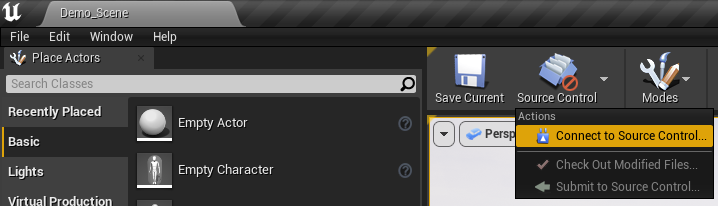
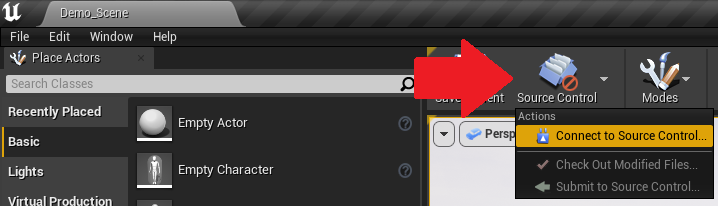
Updating UE Source Control stuffs

Changed region(s): [[0.5515, 0.2039, 0.7354, 0.5825]]

diff --git a/css/style.css b/css/style.css
@@ -53,3 +53,24 @@ h6 {
 	object-fit: cover;
 	object-position: 50% -125px;
 }
+
+.markdown-section thead tr {
+	background: var(--table-row-odd-background) !important;
+}
+
+.markdown-section tbody tr {
+	background: var(--table-row-even-background) !important;
+}
+
+.markdown-section th,
+.markdown-section td {
+	border: none;
+	/* width: 50%; */
+}
+
+/*
+.markdown-section img {
+	margin: auto;
+	display: block;
+}
+*/

diff --git a/docs/content/unreal.md b/docs/content/unreal.md
@@ -34,29 +34,48 @@ With P4V open and connected to the XR Studios Perforce server, launch the Unreal
 
 Once the project is open, select the source control option in Unreal and click _"Connect to source control"_. This option is located in different places depending on whether you are working in UE4 or UE5:
 
-#### UE4 Location
+---
 
-In UE4, the icon is in the top left corner, next to the "Save Current" icon.
+| UE4                                                                           | UE5                                                                 |
+| ----------------------------------------------------------------------------- | ------------------------------------------------------------------- |
+| In UE4, the icon is in the top left corner, next to the "Save Current" icon.  | In UE5, the icon is in the bottom right corner.                     |
+| ![UE4 source control location](../../img/p4v/UE4_sourcecontrol.png)           | ![UE5 source control location](../../img/p4v/UE5_sourcecontrol.png) |
 
-![UE4 source control location](../../img/p4v/UE4_sourcecontrol.png)
+?> In UE 5.2 onwards, this feature was renamed from "Source Control" to "Revision Control"; however, the location is in the same place!
 
-#### UE5 Location
-
-In UE5, the icon is in the bottom right corner.
-
-![UE5 source control location](../../img/p4v/UE5_sourcecontrol.png)
+---
 
 In the dialog box that appears, select Perforce as your provider, then sign in using the same credentials that you are using for P4V:
+
+![Perforce Login](../../img/p4v/UE5_perforce_login.png)
 
 - **Server:** This should always be _ssl:hollywood.xrstudios.live:1666_
 - **User:** This should be the username provided to you by XR Studios, typically along the lines of _{project-name}-collab-user-{number}_ (for example, _cheese-collab-user-1_). If only one user was provided, there won't be a number after the _collab-user_ part of the username.
 - **Workspace:** This is the name of the workspace you created for your project. If you fill in the server and user, you should be able to select your current workspace from the available workspaces tab (P4V must be running and connected to the server).
 
-Click _"Accept Settings"_, and your UE project should now be connected to Perforce source control.
+Click _"Accept Settings"_, and your UE project should now be connected to Perforce source control:
+
+![Success Message](../../img/p4v/UE5_success.png)
 
 ### Overview of Perforce in Unreal Engine
 
-> 🚧Under construction!🚧
+Once you're connected to Perforce, you're free to start doing edits in UE5 as normal. If you're editing an asset, map, etc., when you save you should see a dialog box if the asset isn't checked out yet:
+
+![uproject](../../img/p4v/UE5_checkout.png)
+
+Select all the assets, then click _"Check Out Selected"_; this will add them to the Perforce checklist. From here, the workflow works as normal with Perforce - check out files, make changes to them, then save.
+
+Assets in UE5 will have an icon in the top-right corner indicating their status in Perforce:
+
+| Checked out                                       | Checked out by you                                            | Marked For Add                                         | Not In Depot                                          | Not Latest Changes                                            |
+| ------------------------------------------------- | ------------------------------------------------------------- | ------------------------------------------------------ | ----------------------------------------------------- | ------------------------------------------------------------- |
+| ![Checked Out Icon](../../img/p4v/CheckedOut.png) | ![Checked Out By You Icon](../../img/p4v/CheckedOutByYou.png) | ![Marked for Add Icon](../../img/p4v/MarkedForAdd.png) | ![Not In Depot Icon](../../img/p4v/NotInTheDepot.png) | ![Not Latest Changes Icon](../../img/p4v/NotHeadRevision.png) |
+
+Once you're ready to submit your changes, the process works very similar to P4V. In Unreal Engine, navigate to the _"Source Control"_ button, then click _"Submit Files"_, which will bring up the below dialog. Enter a changelist description and mark the files you want to include, then click _"Submit"_. Congrats - your changes will then be pushed to the Perforce server!
+
+![Submit Button](../../img/p4v/UE5_submitchanges.png)
+
+![Submit Dialog](../../img/p4v/UE5_submitchangeswindow.png)
 
 ## 📁Template File Overview
 
@@ -64,13 +83,13 @@ All of the content will go inside the project's **Content** folder. The Content 
 
 ![Folder Colors](../../../../img/ue5/folder_colors.png ':size=100%')
 
-- <span style="color: #6FDE00">Folders marked in green mean you will be interacting with them.</span>
-- Folders marked in gray means it is highly unlikely that you will need to interact with them.
-- <span style="color: #FFFFFF">White folders contain content that might be helpful to you depending on the needs of your project.</span>
-  - <span style="color: #FFFFFF">EditorMeshes contains a ColorCalibrator Cube.</span>
-  - <span style="color: #FFFFFF">MigratedBlueprints contains some potentially helpful tools migrated over from our UE4 Template.</span>
-  - <span style="color: #FFFFFF">OCIO contains an example OCIO config, and this is where you would also place any other configs or LUTs you may choose to use.</span>
-  - <span style="color: #FFFFFF">UltraDynamicSky contains the updated UE5.1 version of UltraDynamicSky</span>
+- Folders marked in **<span style="color: #6FDE00">green</span>** mean you will be interacting with them.
+- Folders marked in **<span style="color: #888888">gray</span>** means it is highly unlikely that you will need to interact with them.
+- **<span style="color: #FFFFFF">White</span>** folders contain content that might be helpful to you depending on the needs of your project.
+  - EditorMeshes contains a ColorCalibrator Cube.
+  - MigratedBlueprints contains some potentially helpful tools migrated over from our UE4 Template.
+  - OCIO contains an example OCIO config, and this is where you would also place any other configs or LUTs you may choose to use.
+  - UltraDynamicSky contains the updated UE5.1 version of UltraDynamicSky
 
 The main two folders you will be interacting with are:
 

diff --git a/docs/content/perforce.md b/docs/content/perforce.md
@@ -1,6 +1,6 @@
 # Using Perforce For Content Delivery and Version Control
 
-![logo](../../img/p4v/flowchart.png)
+<!-- ![logo](../../img/p4v/flowchart.png) -->
 
 XR Studios uses **Perforce** for Unreal Engine content delivery and version control. Perforce provides a single solution for sharing large files, backups, maintenance, and collaboration with XR Studios. It replaces the need to manually send many large, complex files back and forth via email or link sharing, and acts as a method for both XR Studios and external partners to work on project files simultaneously. Additionally, Perforce allows for "versioning" of files and file history (similar to tools like Git), allowing for us to rollback changes if necessary.
 
